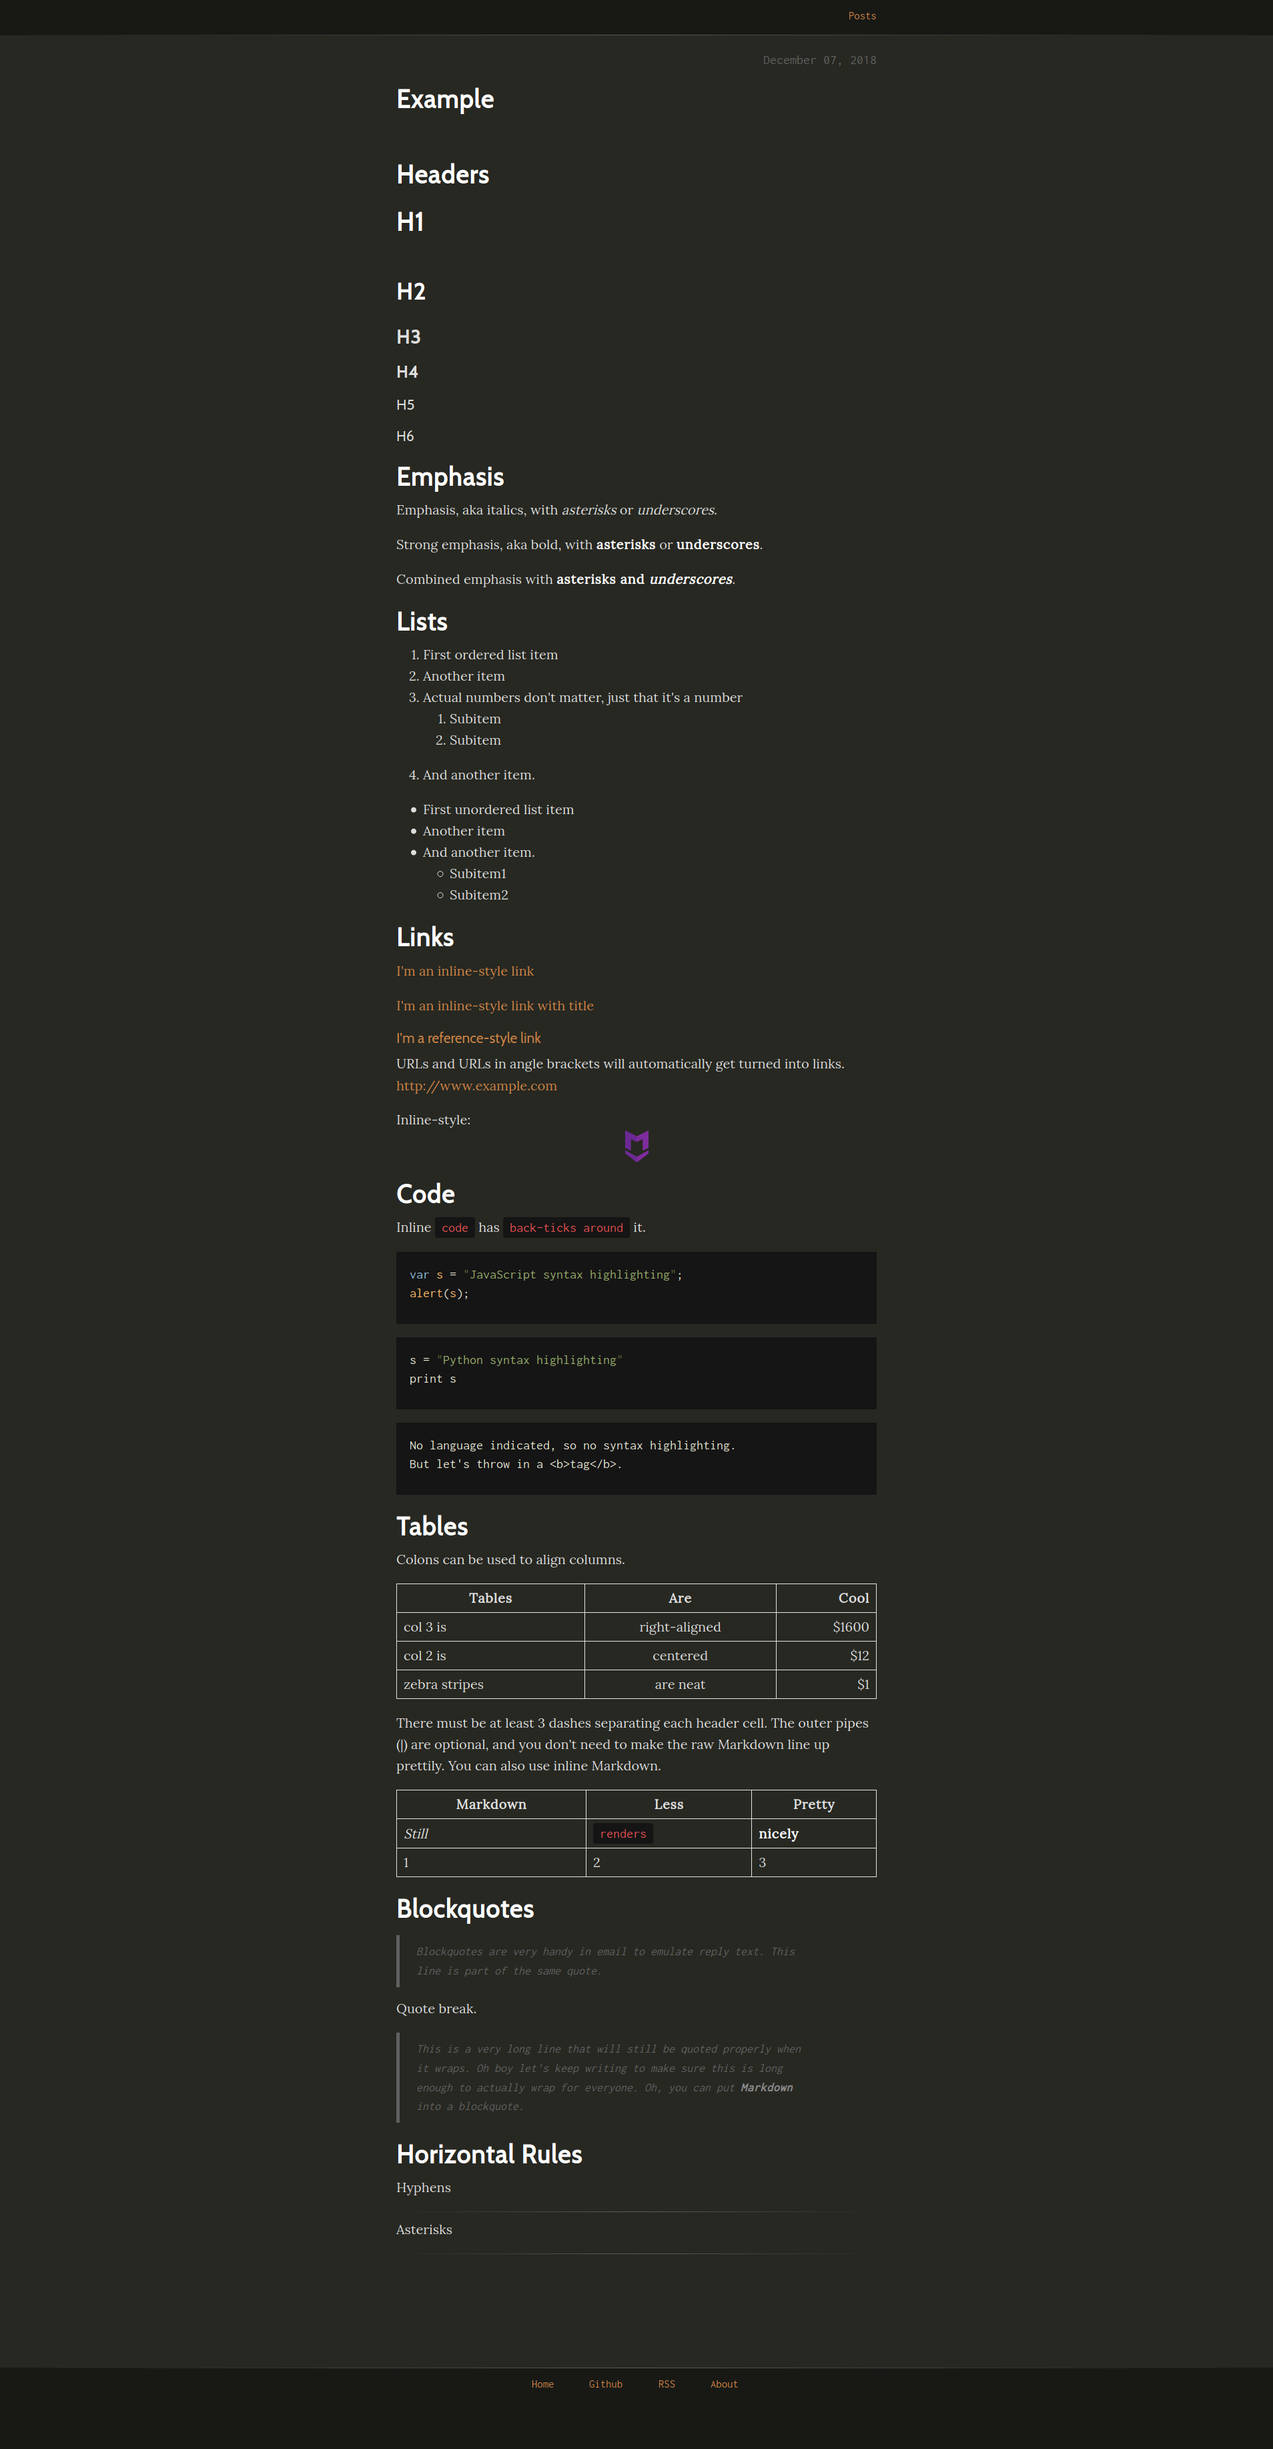
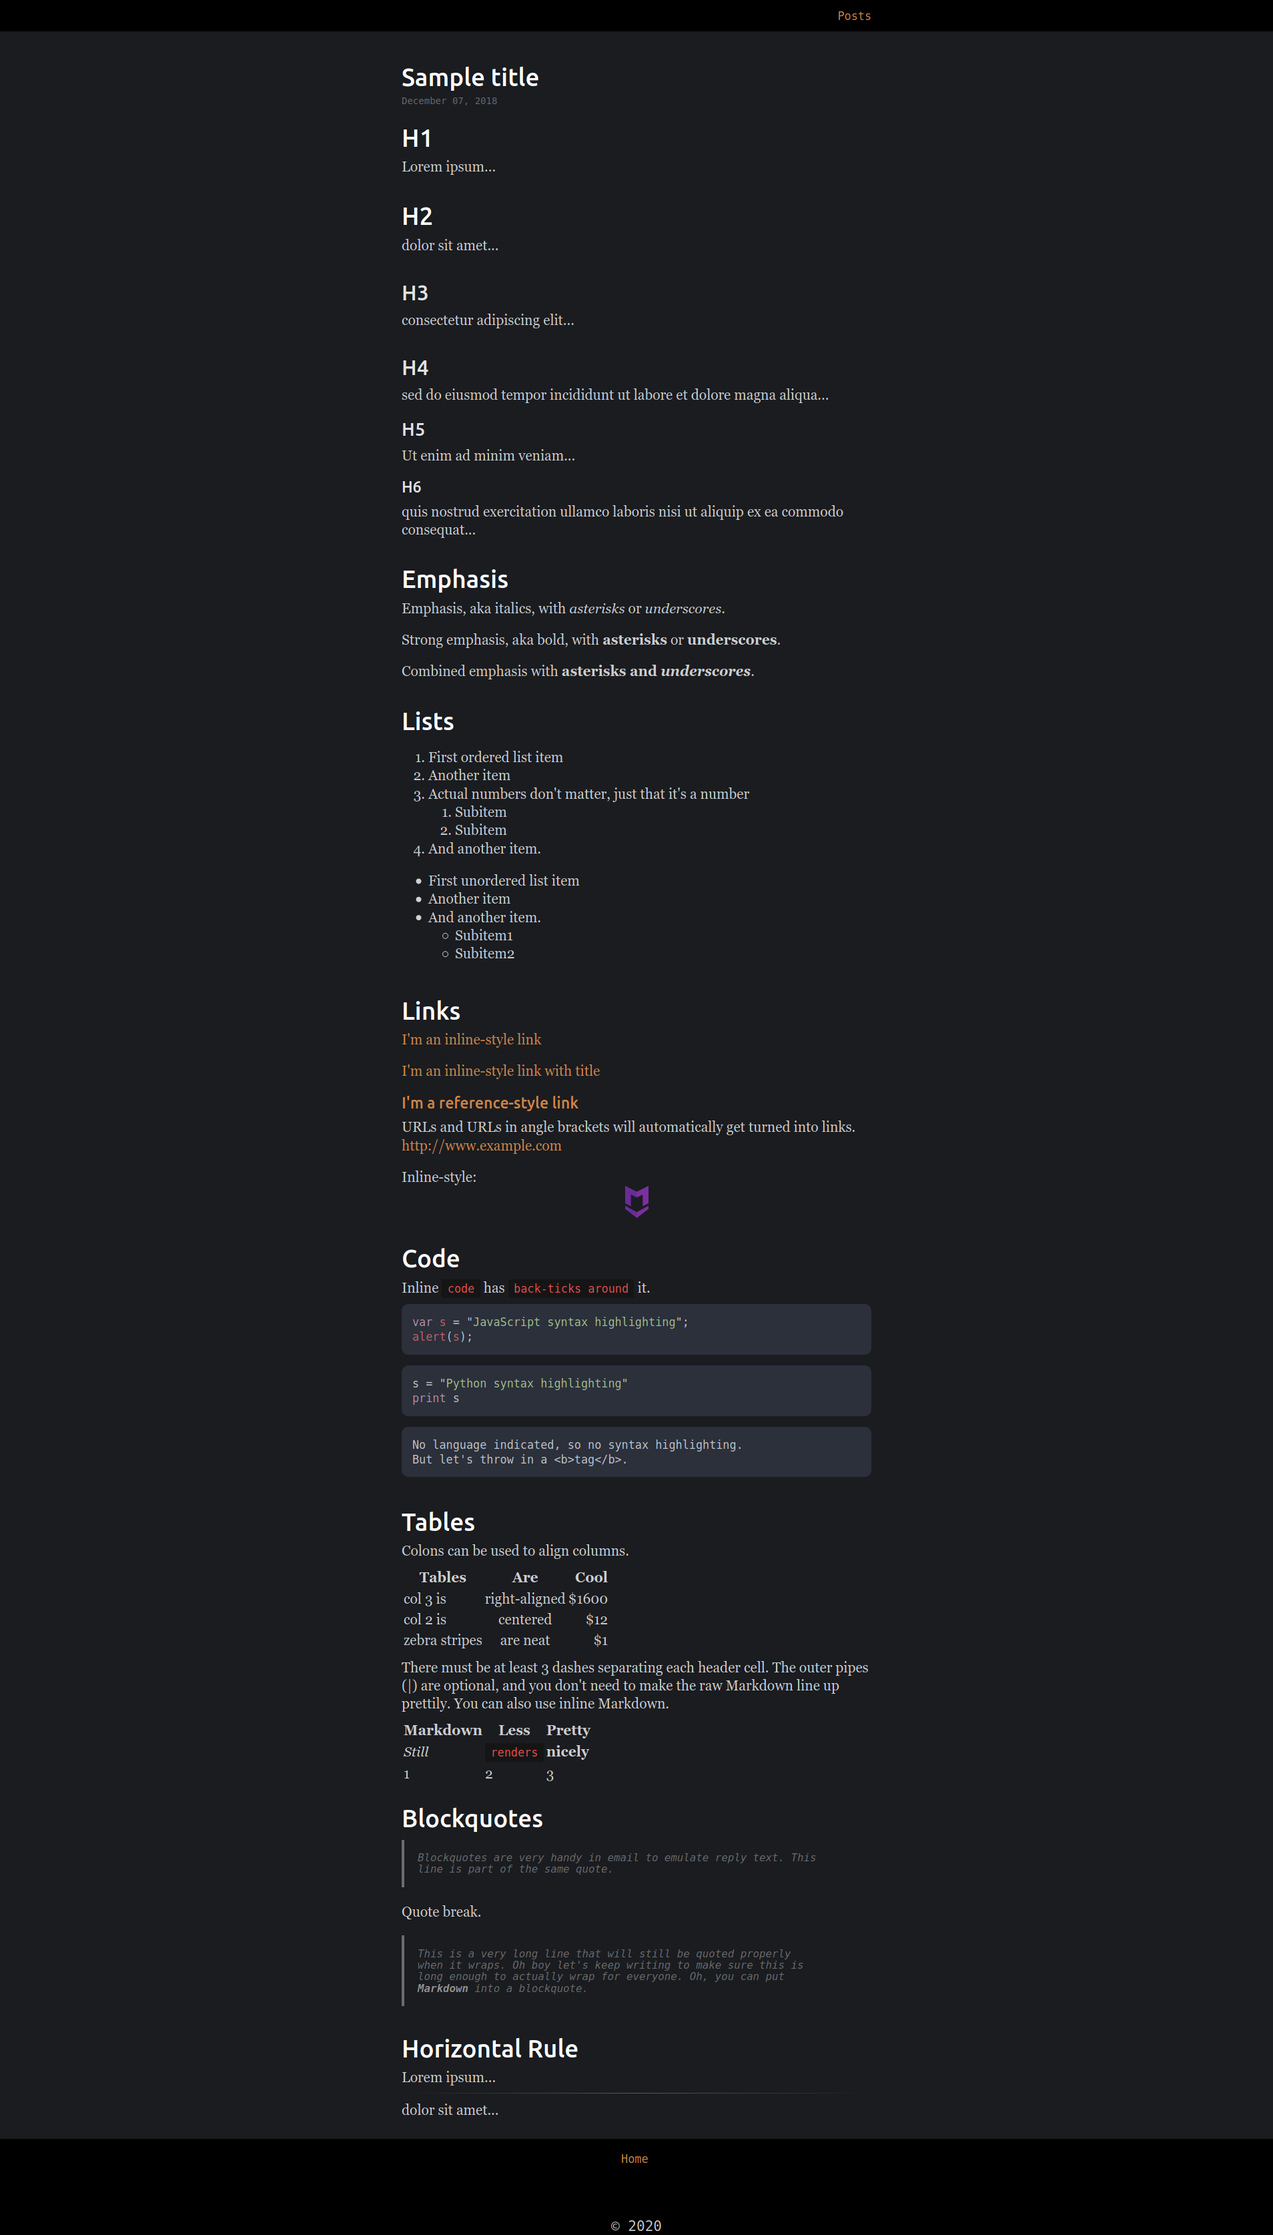
Fix up broken styles in sample page

Changed region(s): [[0.0, 0.0, 1.0, 1.0], [0.5875, 0.8385, 0.6184, 0.9006], [0.4948, 0.8695, 0.5257, 0.9006]]

diff --git a/index.html b/index.html
@@ -3,57 +3,69 @@
   <head>
     <meta http-equiv="X-UA-Compatible" content="IE=edge">
     <meta http-equiv="content-type" content="text/html; charset=utf-8">
-
-    <!-- Enable responsiveness on mobile devices-->
     <meta name="viewport" content="width=device-width, initial-scale=1.0, maximum-scale=1">
 
-    <meta name="theme-color" content="#000">
-    <meta name="msapplication-navbutton-color" content="#000">
-    <meta name="apple-mobile-web-app-status-bar-style" content="#000">
 
-    <title>Example</title>
+
+    <title>Sample title - Soapstone</title>
 
     <!-- Favicon -->
-    
[1 lines of base64/hex data omitted]
-    
 
-    <!-- CSS -->
-    <link rel="stylesheet" href="https:&#x2F;&#x2F;soapstone.mradford.com&#x2F;main.css">
+
+    <!-- Normalize -->
+    <style>
+      /*! normalize.css v8.0.1 | MIT License | github.com/necolas/normalize.css */
+      html{line-height:1.15;-webkit-text-size-adjust:100%}body{margin:0}main{display:block}h1{font-size:2em;margin:.67em 0}hr{box-sizing:content-box;height:0;overflow:visible}pre{font-family:monospace,monospace;font-size:1em}a{background-color:transparent}abbr[title]{border-bottom:none;text-decoration:underline;text-decoration:underline dotted}b,strong{font-weight:bolder}code,kbd,samp{font-family:monospace,monospace;font-size:1em}small{font-size:80%}sub,sup{font-size:75%;line-height:0;position:relative;vertical-align:baseline}sub{bottom:-.25em}sup{top:-.5em}img{border-style:none}button,input,optgroup,select,textarea{font-family:inherit;font-size:100%;line-height:1.15;margin:0}button,input{overflow:visible}button,select{text-transform:none}[type=button],[type=reset],[type=submit],button{-webkit-appearance:button}[type=button]::-moz-focus-inner,[type=reset]::-moz-focus-inner,[type=submit]::-moz-focus-inner,button::-moz-focus-inner{border-style:none;padding:0}[type=button]:-moz-focusring,[type=reset]:-moz-focusring,[type=submit]:-moz-focusring,button:-moz-focusring{outline:1px dotted ButtonText}fieldset{padding:.35em .75em .625em}legend{box-sizing:border-box;color:inherit;display:table;max-width:100%;padding:0;white-space:normal}progress{vertical-align:baseline}textarea{overflow:auto}[type=checkbox],[type=radio]{box-sizing:border-box;padding:0}[type=number]::-webkit-inner-spin-button,[type=number]::-webkit-outer-spin-button{height:auto}[type=search]{-webkit-appearance:textfield;outline-offset:-2px}[type=search]::-webkit-search-decoration{-webkit-appearance:none}::-webkit-file-upload-button{-webkit-appearance:button;font:inherit}details{display:block}summary{display:list-item}template{display:none}[hidden]{display:none}
+    </style>
+
+    <style>body{background-color:#000;margin:0 auto;color:rgba(255,255,255,0.8);text-rendering:optimizeLegibility;font-style:normal;letter-spacing:normal;font-stretch:100%;vertical-align:baseline}@media (min-width: 801px){body{font-size:21px;line-height:1.3em;font-family:Georgia,serif}}@media (max-width: 800px){body{font-size:18px;line-height:1.6em;font-family:-apple-system, system-ui, BlinkMacSystemFont, "Segoe UI", Roboto, Ubuntu;font-weight:300}}nav{font-family:"Lucida Console", Monaco, monospace;max-width:44rem;margin:0 auto;text-align:right;font-size:0.8em;padding:10px}nav h1{text-align:center}hr{padding:0;margin:0;border:0;height:1px;background-image:linear-gradient(to right, rgba(111,111,111,0), rgba(111,111,111,0.75), rgba(111,111,111,0))}p{padding-top:10px;padding-bottom:10px;margin:0}main{background-color:#1a1c20}main section{max-width:44rem;margin-left:auto;margin-right:auto;padding-bottom:20px;padding-left:1em;padding-right:1em}main header{padding-top:20px;padding-bottom:20px}h1,h2,h3,h4,h5,h6{margin:0;font-family:-apple-system,BlinkMacSystemFont,Segoe UI,Roboto,Oxygen,Ubuntu,Cantarell,Open Sans,Helvetica Neue,sans-serif;line-height:1.1;font-weight:500}h1{color:#fff;font-size:1.75em}h2{color:#fff;font-size:1.75em;padding-top:30px}h3{color:rgba(255,255,255,0.9);font-size:1.5em;padding-top:30px}h4{color:rgba(255,255,255,0.9);font-size:1.5em;padding-top:30px}h5{color:rgba(255,255,255,0.9);font-size:1.3em;padding-top:0.5em}h6{color:rgba(255,255,255,0.9);font-size:1.1em;padding-top:0.5em}time{color:rgba(128,128,128,0.8);font-size:14px}time{font-family:"Lucida Console", Monaco, monospace}img{display:block;margin:auto;border-radius:5px;max-width:100%}.invert{filter:invert(1);-webkit-filter:invert(1)}blockquote{font-size:0.75em;font-style:italic;line-height:1.1;font-family:"Lucida Console", Monaco, monospace;padding:.5rem 1rem;margin:.8rem 0;color:rgba(128,128,128,0.8);border-left:0.25rem solid rgba(128,128,128,0.8)}blockquote strong{color:rgba(179,179,179,0.8)}blockquote p:last-child{margin-bottom:0}@media (min-width: 30em){blockquote{padding-right:5rem;padding-left:1.25rem}}footer{text-align:center}footer ul li{display:inline-block;list-style:none;margin-right:2.7em}footer ul li:before{content:''}footer{font-family:"Lucida Console", Monaco, monospace}article aside{min-width:100%;display:flex;-webkit-display:flex;-moz-display:flex;flex-direction:column;align-items:flex-end;align-content:flex-end}article aside figure{display:flex;-webkit-display:flex;-moz-display:flex;margin:0;flex-direction:column;align-items:center;align-content:center}article aside figure figcaption{font-family:"Lucida Console", Monaco, monospace;font-style:italic;font-size:80%;color:rgba(128,128,128,0.8);padding-top:10px}code{padding:.25em .5em;color:#e94e4e;background-color:#151515;border-radius:3px;font-size:80%}pre{border-radius:10px;display:block;margin-top:0;margin-bottom:1rem;padding:1rem;line-height:1.3;overflow-x:auto;background-color:#151515;font-size:80%}pre code{font-family:"Lucida Console", Monaco, monospace;padding:0;color:inherit;background-color:transparent}.highlight{margin-bottom:1rem;border-radius:4px}.highlight pre{margin-bottom:0}a{display:inline-block;text-decoration:none;color:#d28445;position:relative}@media (min-width: 800px){a:after{content:'';position:absolute;width:0;height:2px;display:block;right:0;background:#f4bf75;transition:width .3s ease;-webkit-transition:width .3s ease}a:hover:after{width:100%;left:0;background:#f4bf75}}a.normal{transform:none;-webkit-transform:none}a.normal:before{height:0px;-webkit-transition-property:none;transition-property:none}a.normal:after{width:0%;transition:unset}
+</style>
+
+
+
+
   </head>
 
   <body>
-    
-  <header>
-    <div class="right">
-      <small>
-        <a href="/">Posts</a>
-      </small>
-    </div>
-    <hr>
-  </header>
+
+  <nav>
+    <a href="/">Posts</a>
+  </nav>
 
 
-    <div class="content container">
-      
-  <div class="post">
-    <span class="post-date right">December 07, 2018</span>
-    <h1 class="post-title">Example</h1>
+    <main>
+      <br>
+      <section>
 
-    <br>
+  <article>
+    <header>
+      <h1>Sample title</h1>
 
-    <h1 id="headers">Headers</h1>
-<h1 id="h1">H1</h1>
+      <time>
+
+        December 07, 2018
+      </time>
+
+
+    </header>
+
+    <h1 id="h1">H1</h1>
+<p>Lorem ipsum...</p>
 <h2 id="h2">H2</h2>
+<p>dolor sit amet...</p>
 <h3 id="h3">H3</h3>
+<p>consectetur adipiscing elit...</p>
 <h4 id="h4">H4</h4>
+<p>sed do eiusmod tempor incididunt ut labore et dolore magna aliqua...</p>
 <h5 id="h5">H5</h5>
+<p>Ut enim ad minim veniam...</p>
 <h6 id="h6">H6</h6>
-<h1 id="emphasis">Emphasis</h1>
+<p>quis nostrud exercitation ullamco laboris nisi ut aliquip ex ea commodo consequat...</p>
+<h2 id="emphasis">Emphasis</h2>
 <p>Emphasis, aka italics, with <em>asterisks</em> or <em>underscores</em>.</p>
 <p>Strong emphasis, aka bold, with <strong>asterisks</strong> or <strong>underscores</strong>.</p>
 <p>Combined emphasis with <strong>asterisks and <em>underscores</em></strong>.</p>
-<h1 id="lists">Lists</h1>
+<h2 id="lists">Lists</h2>
 <ol>
 <li>First ordered list item</li>
 <li>Another item</li>
@@ -75,25 +87,25 @@
 </ul>
 </li>
 </ul>
-<h1 id="links">Links</h1>
+<h2 id="links">Links</h2>
 <p><a href="https://www.google.com">I'm an inline-style link</a></p>
 <p><a href="https://www.google.com" title="Google's Homepage">I'm an inline-style link with title</a></p>
-<h6 id="here"><a href="https://mattyrad.github.io/soapstone/#here">I'm a reference-style link</a></h6>
+<h6 id="here"><a href="#here">I'm a reference-style link</a></h6>
 <p>URLs and URLs in angle brackets will automatically get turned into links. <a href="http://www.example.com">http://www.example.com</a></p>
-<p>Inline-style: 
+<p>Inline-style:
 <img src="https://github.com/adam-p/markdown-here/raw/master/src/common/images/icon48.png" alt="alt text" title="Logo Title Text 1" /></p>
-<h1 id="code">Code</h1>
+<h2 id="code">Code</h2>
 <p>Inline <code>code</code> has <code>back-ticks around</code> it.</p>
-<pre style="background-color:#151515;">
-<span style="color:#8fbfdc;">var </span><span style="color:#ffb964;">s </span><span style="color:#e8e8d3;">= </span><span style="color:#556633;">&quot;</span><span style="color:#99ad6a;">JavaScript syntax highlighting</span><span style="color:#556633;">&quot;</span><span style="color:#e8e8d3;">;
-</span><span style="color:#ffb964;">alert</span><span style="color:#e8e8d3;">(</span><span style="color:#ffb964;">s</span><span style="color:#e8e8d3;">);
-</span></pre><pre style="background-color:#151515;">
-<span style="color:#e8e8d3;">s = </span><span style="color:#556633;">&quot;</span><span style="color:#99ad6a;">Python syntax highlighting</span><span style="color:#556633;">&quot;
-</span><span style="color:#e8e8d3;">print s
-</span></pre><pre style="background-color:#151515;">
-<span style="color:#e8e8d3;">No language indicated, so no syntax highlighting. 
+<pre style="background-color:#2b303b;">
+<span style="color:#b48ead;">var </span><span style="color:#bf616a;">s </span><span style="color:#c0c5ce;">= &quot;</span><span style="color:#a3be8c;">JavaScript syntax highlighting</span><span style="color:#c0c5ce;">&quot;;
+</span><span style="color:#bf616a;">alert</span><span style="color:#c0c5ce;">(</span><span style="color:#bf616a;">s</span><span style="color:#c0c5ce;">);
+</span></pre><pre style="background-color:#2b303b;">
+<span style="color:#c0c5ce;">s = &quot;</span><span style="color:#a3be8c;">Python syntax highlighting</span><span style="color:#c0c5ce;">&quot;
+</span><span style="color:#b48ead;">print </span><span style="color:#c0c5ce;">s
+</span></pre><pre style="background-color:#2b303b;">
+<span style="color:#c0c5ce;">No language indicated, so no syntax highlighting.
 But let&#39;s throw in a &lt;b&gt;tag&lt;/b&gt;.
-</span></pre><h1 id="tables">Tables</h1>
+</span></pre><h2 id="tables">Tables</h2>
 <p>Colons can be used to align columns.</p>
 <table><thead><tr><th>Tables</th><th align="center">Are</th><th align="right">Cool</th></tr></thead><tbody>
 <tr><td>col 3 is</td><td align="center">right-aligned</td><td align="right">$1600</td></tr>
@@ -101,13 +113,13 @@ But let&#39;s throw in a &lt;b&gt;tag&lt;/b&gt;.
 <tr><td>zebra stripes</td><td align="center">are neat</td><td align="right">$1</td></tr>
 </tbody></table>
 <p>There must be at least 3 dashes separating each header cell.
-The outer pipes (|) are optional, and you don't need to make the 
+The outer pipes (|) are optional, and you don't need to make the
 raw Markdown line up prettily. You can also use inline Markdown.</p>
 <table><thead><tr><th>Markdown</th><th>Less</th><th>Pretty</th></tr></thead><tbody>
 <tr><td><em>Still</em></td><td><code>renders</code></td><td><strong>nicely</strong></td></tr>
 <tr><td>1</td><td>2</td><td>3</td></tr>
 </tbody></table>
-<h1 id="blockquotes">Blockquotes</h1>
+<h2 id="blockquotes">Blockquotes</h2>
 <blockquote>
 <p>Blockquotes are very handy in email to emulate reply text.
 This line is part of the same quote.</p>
@@ -116,46 +128,37 @@ This line is part of the same quote.</p>
 <blockquote>
 <p>This is a very long line that will still be quoted properly when it wraps. Oh boy let's keep writing to make sure this is long enough to actually wrap for everyone. Oh, you can <em>put</em> <strong>Markdown</strong> into a blockquote.</p>
 </blockquote>
-<h1 id="horizontal-rules">Horizontal Rules</h1>
-<p>Hyphens</p>
+<h2 id="horizontal-rule">Horizontal Rule</h2>
+<p>Lorem ipsum...</p>
 <hr />
-<p>Asterisks</p>
-<hr />
+<p>dolor sit amet...</p>
 
-  </div>
 
-    </div>
 
-    
-      <footer class="center">
-        <hr>
+  </article>
+
+      </section>
+    </main>
+
+
+      <footer>
         <small>
           <ul>
             <li>
               <a href="/">Home</a>
             </li>
-            
-              <li>
-                <a href="https:&#x2F;&#x2F;github.com&#x2F;MattyRad">Github</a>
-              </li>
-            
-            
-              <li>
-                <a href="/rss.xml">RSS</a>
-              </li>
-            
-            
-              <li>
-                <a href="#" target="_blank">About</a>
-              </li>
-            
+
+
+
           </ul>
         </small>
 
-        
+
 
         <br><br>
+
+        &#169; 2020
       </footer>
-    
-  </body>
+
+  <script src="/livereload.js?port=1024&mindelay=10"></script></body>
 </html>

diff --git a/templates/index.html b/templates/index.html
@@ -49,7 +49,6 @@
           <h1>{{ config.extra.list_header }}</h1>
         {% endif %}
       </nav>
-      <hr>
     {% endblock header %}
 
     <main>
@@ -80,7 +79,6 @@
 
     {% block footer %}
       <footer>
-        <hr>
         <small>
           <ul>
             <li>

diff --git a/templates/page.html b/templates/page.html
@@ -6,7 +6,6 @@
   <nav>
     <a href="/">Posts</a>
   </nav>
-  <hr>
 {% endblock header %}
 
 {% block content %}

diff --git a/index.md b/index.md
@@ -1,22 +1,37 @@
 +++
 date = 2018-12-07T14:07:34-08:00
-title = "ASD"
+title = "Sample title"
 tags = ["error logs", "logging", "syntax highlighting"]
 
 #[taxonomies]
 #categories = ["tips"]
 +++
 
-# Headers
-
 # H1
+
+Lorem ipsum...
+
 ## H2
+
+dolor sit amet...
+
 ### H3
+
+consectetur adipiscing elit...
+
 #### H4
+
+sed do eiusmod tempor incididunt ut labore et dolore magna aliqua...
+
 ##### H5
+
+Ut enim ad minim veniam...
+
 ###### H6
 
-# Emphasis
+quis nostrud exercitation ullamco laboris nisi ut aliquip ex ea commodo consequat...
+
+## Emphasis
 
 Emphasis, aka italics, with *asterisks* or _underscores_.
 
@@ -24,7 +39,7 @@ Strong emphasis, aka bold, with **asterisks** or __underscores__.
 
 Combined emphasis with **asterisks and _underscores_**.
 
-# Lists
+## Lists
 
 1. First ordered list item
 2. Another item
@@ -40,7 +55,7 @@ Combined emphasis with **asterisks and _underscores_**.
     * Subitem1
     * Subitem2
 
-# Links
+## Links
 
 [I'm an inline-style link](https://www.google.com)
 
@@ -50,10 +65,10 @@ Combined emphasis with **asterisks and _underscores_**.
 
 URLs and URLs in angle brackets will automatically get turned into links. <http://www.example.com>
 
-Inline-style: 
+Inline-style:
 ![alt text](https://github.com/adam-p/markdown-here/raw/master/src/common/images/icon48.png "Logo Title Text 1")
 
-# Code
+## Code
 
 Inline `code` has `back-ticks around` it.
 
@@ -61,18 +76,18 @@ Inline `code` has `back-ticks around` it.
 var s = "JavaScript syntax highlighting";
 alert(s);
 ```
- 
+
 ```python
 s = "Python syntax highlighting"
 print s
 ```
- 
+
 ```
-No language indicated, so no syntax highlighting. 
+No language indicated, so no syntax highlighting.
 But let's throw in a <b>tag</b>.
 ```
 
-# Tables
+## Tables
 
 Colons can be used to align columns.
 
@@ -83,7 +98,7 @@ Colons can be used to align columns.
 | zebra stripes | are neat      |    $1 |
 
 There must be at least 3 dashes separating each header cell.
-The outer pipes (|) are optional, and you don't need to make the 
+The outer pipes (|) are optional, and you don't need to make the
 raw Markdown line up prettily. You can also use inline Markdown.
 
 Markdown | Less | Pretty
@@ -91,7 +106,7 @@ Markdown | Less | Pretty
 *Still* | `renders` | **nicely**
 1 | 2 | 3
 
-# Blockquotes
+## Blockquotes
 
 > Blockquotes are very handy in email to emulate reply text.
 > This line is part of the same quote.
@@ -100,12 +115,8 @@ Quote break.
 
 > This is a very long line that will still be quoted properly when it wraps. Oh boy let's keep writing to make sure this is long enough to actually wrap for everyone. Oh, you can *put* **Markdown** into a blockquote.
 
-# Horizontal Rules
+## Horizontal Rule
 
-Hyphens
-
----
-
-Asterisks
-
+Lorem ipsum...
 ***
+dolor sit amet...
